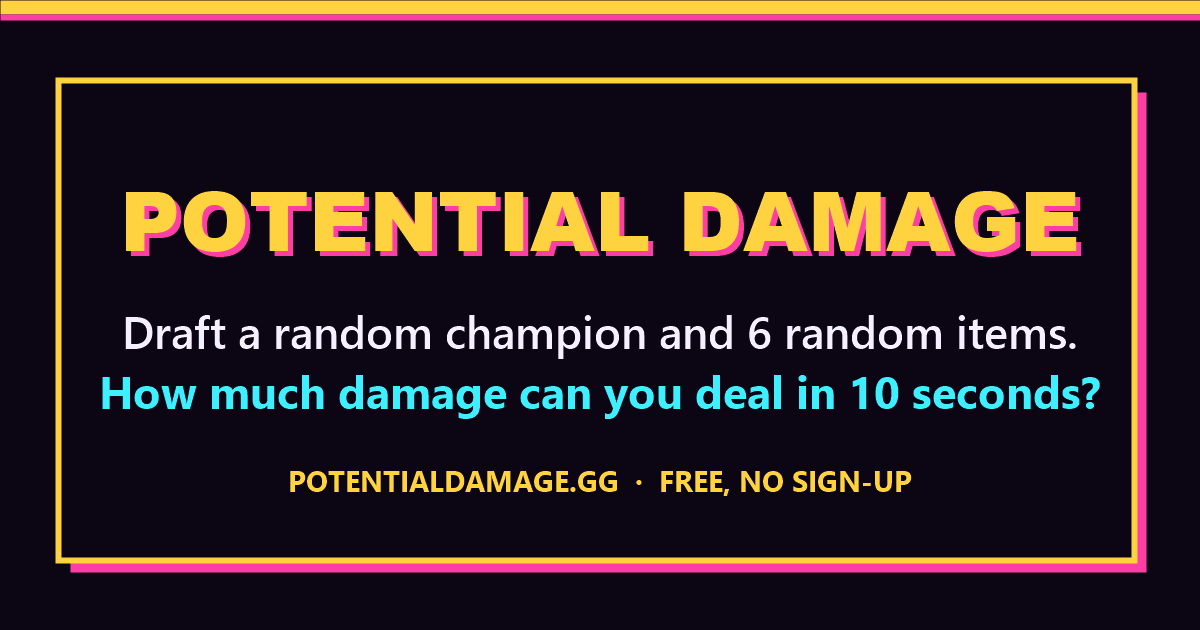
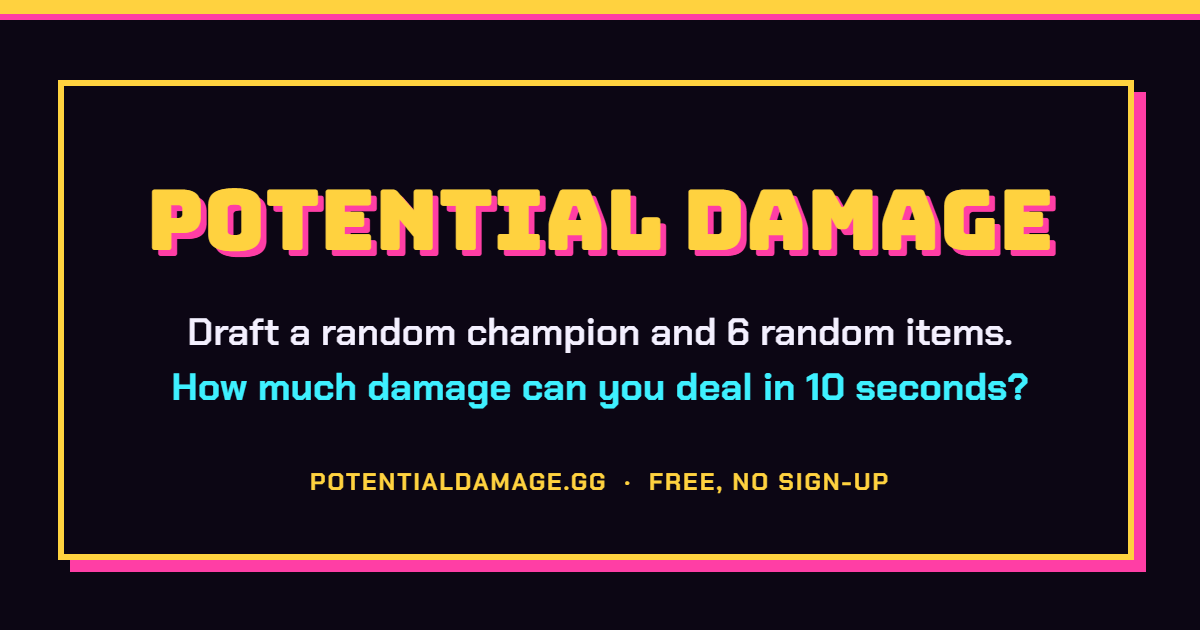
Link preview drawn with the site's own fonts (Bungee + Chakra Petch) instead of Arial Black and Segoe UI
tools/og-image.html draws og.png in the browser and saves it through the local server; replaces tools/make-og-image.ps1. Preview version bumped to v=4.

Changed region(s): [[0.0308, 0.1206, 0.9558, 0.9048], [0.0, 0.0, 1.0, 0.0302], [0.2158, 0.7238, 0.7708, 0.7841]]

diff --git a/tools/og-image.html b/tools/og-image.html
@@ -1,0 +1,58 @@
+<!doctype html>
+<html lang="en">
+<head>
+<meta charset="utf-8">
+<meta name="viewport" content="width=device-width,initial-scale=1">
+<title>OG image</title>
+<!-- Draws og.png (1200x630), the image link previews show (Reddit, Discord, X...), with the site's own fonts.
+     Open on the local server (http://localhost:5174/tools/og-image.html) and press Save: .claude/serve.ps1 writes og.png.
+     Then bump ?v= on the og:image and twitter:image tags in index.html. Text stays central: previews crop the edges. -->
+<link rel="stylesheet" href="https://fonts.googleapis.com/css2?family=Bungee&family=Chakra+Petch:wght@600;700&display=block">
+<style>
+  body{margin:0;padding:16px;background:#222;color:#eee;font:14px system-ui}
+  canvas{max-width:100%;height:auto;display:block;margin-bottom:12px}
+</style>
+</head>
+<body>
+<canvas id="c" width="1200" height="630"></canvas>
+<button id="save">Save og.png</button> <span id="msg"></span>
+<script>
+const C = { bg:'#0c0614', gold:'#ffd23f', cyan:'#3ef0ff', pink:'#ff3ea5', text:'#f4f0ff' };
+const W = 1200, H = 630, cv = document.getElementById('c'), g = cv.getContext('2d');
+
+// Fit text to a width by shrinking the font size.
+function fit(text, font, size, maxW) { do { g.font = font.replace('{s}', size); } while (g.measureText(text).width > maxW && --size > 10); return size; }
+function line(text, font, size, color, y, { shadow = 0, maxW = 1000, spacing = '0px' } = {}) {
+  g.letterSpacing = spacing; fit(text, font, size, maxW);
+  if (shadow) { g.fillStyle = C.pink; g.fillText(text, W / 2 + shadow, y + shadow); }
+  g.fillStyle = color; g.fillText(text, W / 2, y);
+}
+
+async function draw() {
+  await Promise.all(['72px Bungee', '700 34px "Chakra Petch"', '600 34px "Chakra Petch"'].map(f => document.fonts.load(f)));
+  g.fillStyle = C.bg; g.fillRect(0, 0, W, H);
+  // Top stripe (yellow, then pink), like the site.
+  g.fillStyle = C.gold; g.fillRect(0, 0, W, 14);
+  g.fillStyle = C.pink; g.fillRect(0, 14, W, 6);
+  // Frame: hard pink offset shadow behind a yellow border (the --e3 look).
+  g.fillStyle = C.pink; g.fillRect(70, 92, 1076, 480);
+  g.fillStyle = C.bg; g.fillRect(58, 80, 1076, 480);
+  g.strokeStyle = C.gold; g.lineWidth = 6; g.strokeRect(61, 83, 1070, 474);
+
+  g.textAlign = 'center'; g.textBaseline = 'alphabetic';
+  line('POTENTIAL DAMAGE', '{s}px Bungee', 84, C.gold, 250, { shadow: 6, maxW: 980 });
+  line('Draft a random champion and 6 random items.', '600 {s}px "Chakra Petch"', 38, C.text, 345);
+  line('How much damage can you deal in 10 seconds?', '700 {s}px "Chakra Petch"', 38, C.cyan, 400);
+  line('POTENTIALDAMAGE.GG  ·  FREE, NO SIGN-UP', '700 {s}px "Chakra Petch"', 24, C.gold, 490, { spacing: '2px' });
+  document.body.dataset.ready = '1';
+}
+draw();
+
+document.getElementById('save').onclick = async () => {
+  const blob = await new Promise(r => cv.toBlob(r, 'image/png'));
+  const res = await fetch('/og.png', { method: 'PUT', body: blob });
+  document.getElementById('msg').textContent = res.ok ? 'Saved og.png' : 'Save failed (' + res.status + '): use the local server';
+};
+</script>
+</body>
+</html>

diff --git a/index.html b/index.html
@@ -14,7 +14,7 @@
   frame-src https://challenges.cloudflare.com; object-src 'none'; base-uri 'self'; form-action 'self'">
 <meta name="referrer" content="strict-origin-when-cross-origin">
 <title>Potential Damage</title>
-<!-- Link previews (Reddit, Discord, X, iMessage): tools/make-og-image.ps1 draws og.png. -->
+<!-- Link previews (Reddit, Discord, X, iMessage): tools/og-image.html draws og.png. -->
 <meta name="description" content="Draft a random League of Legends champion and 6 random items, then see how much damage you deal to a training dummy in 10 seconds. Free, no sign-up, daily challenge and leaderboards.">
 <link rel="canonical" href="https://potentialdamage.gg/">
 <meta property="og:type" content="website">
@@ -22,14 +22,14 @@
 <meta property="og:title" content="Potential Damage: how much damage can your random build deal?">
 <meta property="og:description" content="Draft a random champion and 6 random items, then fight a 10,000 HP training dummy for 10 seconds. Free, no sign-up, daily challenge and leaderboards.">
 <meta property="og:url" content="https://potentialdamage.gg/">
-<meta property="og:image" content="https://potentialdamage.gg/og.png?v=3">
+<meta property="og:image" content="https://potentialdamage.gg/og.png?v=4">
 <meta property="og:image:width" content="1200">
 <meta property="og:image:height" content="630">
 <meta property="og:image:alt" content="Potential Damage: draft a random champion and 6 random items. How much damage can you deal in 10 seconds?">
 <meta name="twitter:card" content="summary_large_image">
 <meta name="twitter:title" content="Potential Damage: how much damage can your random build deal?">
 <meta name="twitter:description" content="Draft a random champion and 6 random items, then fight a training dummy for 10 seconds. Free, no sign-up.">
-<meta name="twitter:image" content="https://potentialdamage.gg/og.png?v=3">
+<meta name="twitter:image" content="https://potentialdamage.gg/og.png?v=4">
 <link rel="preconnect" href="https://fonts.googleapis.com">
 <script>
 /* Arcade is the default look; ?theme=classic switches this browser back to the original (remembered), ?theme=arcade returns.

diff --git a/DESIGN.md b/DESIGN.md
@@ -65,7 +65,7 @@ Platinum `#4fe6d0`, Emerald `#3ddc84`, Diamond `#7aa2ff`, Master `#c77dff`, Gran
   buttons 700 in capitals with 0.04em tracking.
 - No pixel fonts: they were tried and rejected as hard to read.
 - Not in the arcade theme: Inter, Roboto, Arial, Space Grotesk (the "AI default" faces). Classic keeps Inter as the
-  preserved original. The link preview image uses Arial Black only because Bungee isn't installed where it's drawn.
+  preserved original. The link preview image uses the same two fonts.
 - Light text on dark: body line height 1.55, long text 1.6, letter spacing 0.005em.
 - Line length: long text stops near 90 characters (footer), How to play cards stay around 45 to 75.
 - Numbers use tabular figures where they update live (clock, totals, leaderboard scores).
@@ -123,7 +123,7 @@ Platinum `#4fe6d0`, Emerald `#3ddc84`, Diamond `#7aa2ff`, Master `#c77dff`, Gran
 - Keep Riot's "isn't endorsed by Riot Games" notice in every page footer.
 - Don't imitate the League client (gold filigree frames, Beaufort-style serif, hex patterns): fan content must not look
   official.
-- Link preview image: `og.png` (1200x630, drawn by `tools/make-og-image.ps1`); bump `?v=` in the meta tags when it changes.
+- Link preview image: `og.png` (1200x630, drawn in the browser by `tools/og-image.html` with the site fonts; Save writes it through the local server); bump `?v=` in the meta tags when it changes.
 
 ## Don'ts (the generic-AI look we moved away from)
 
